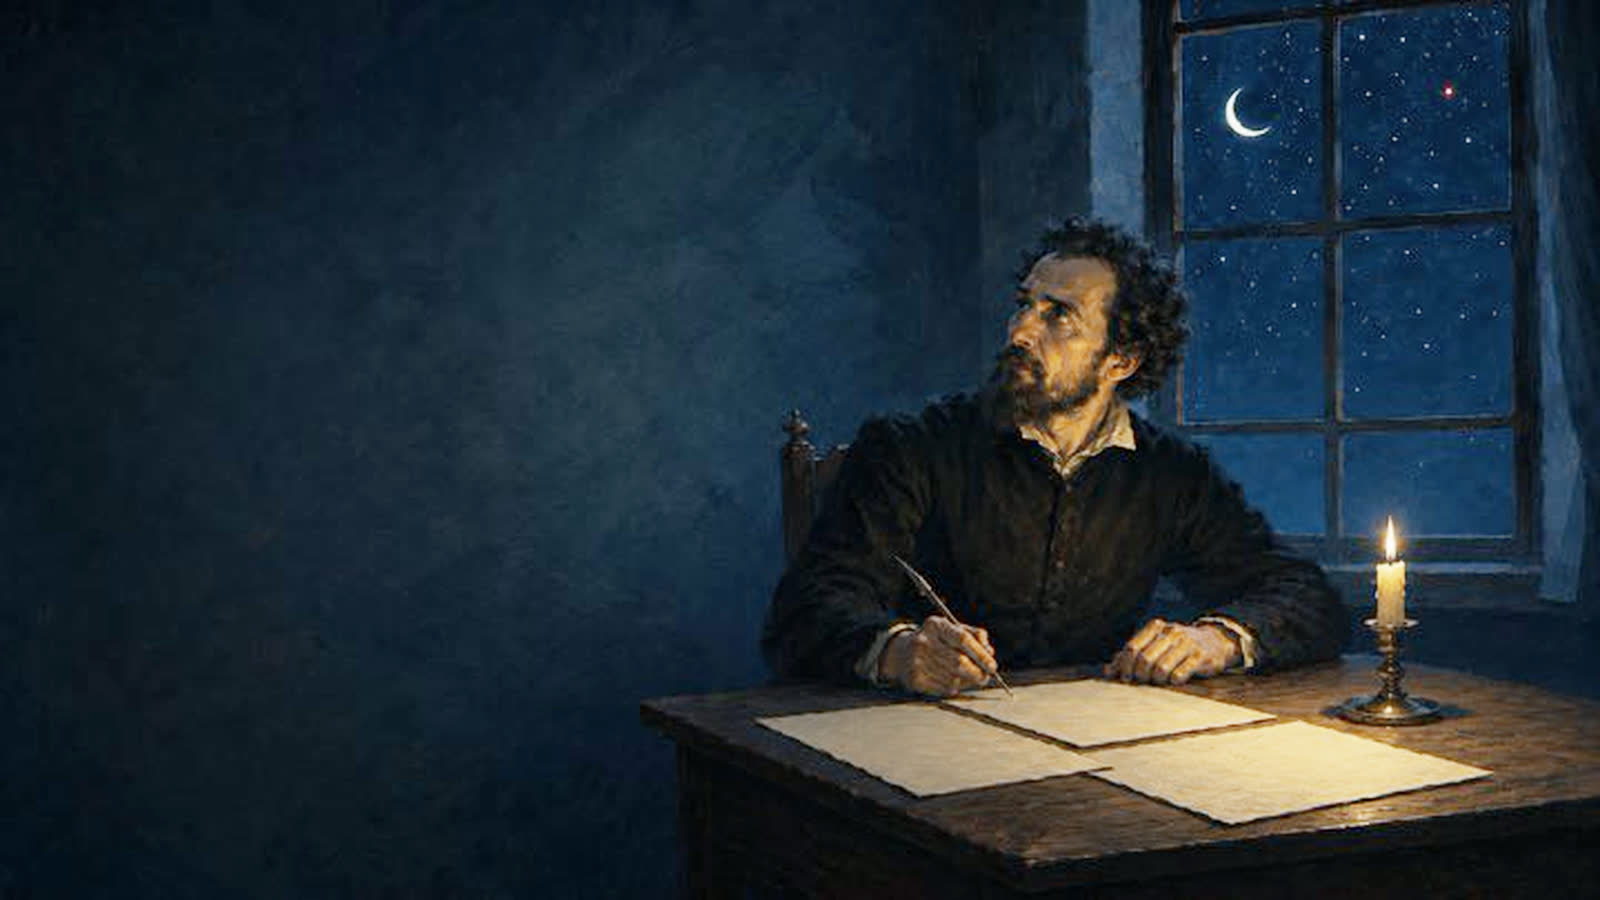
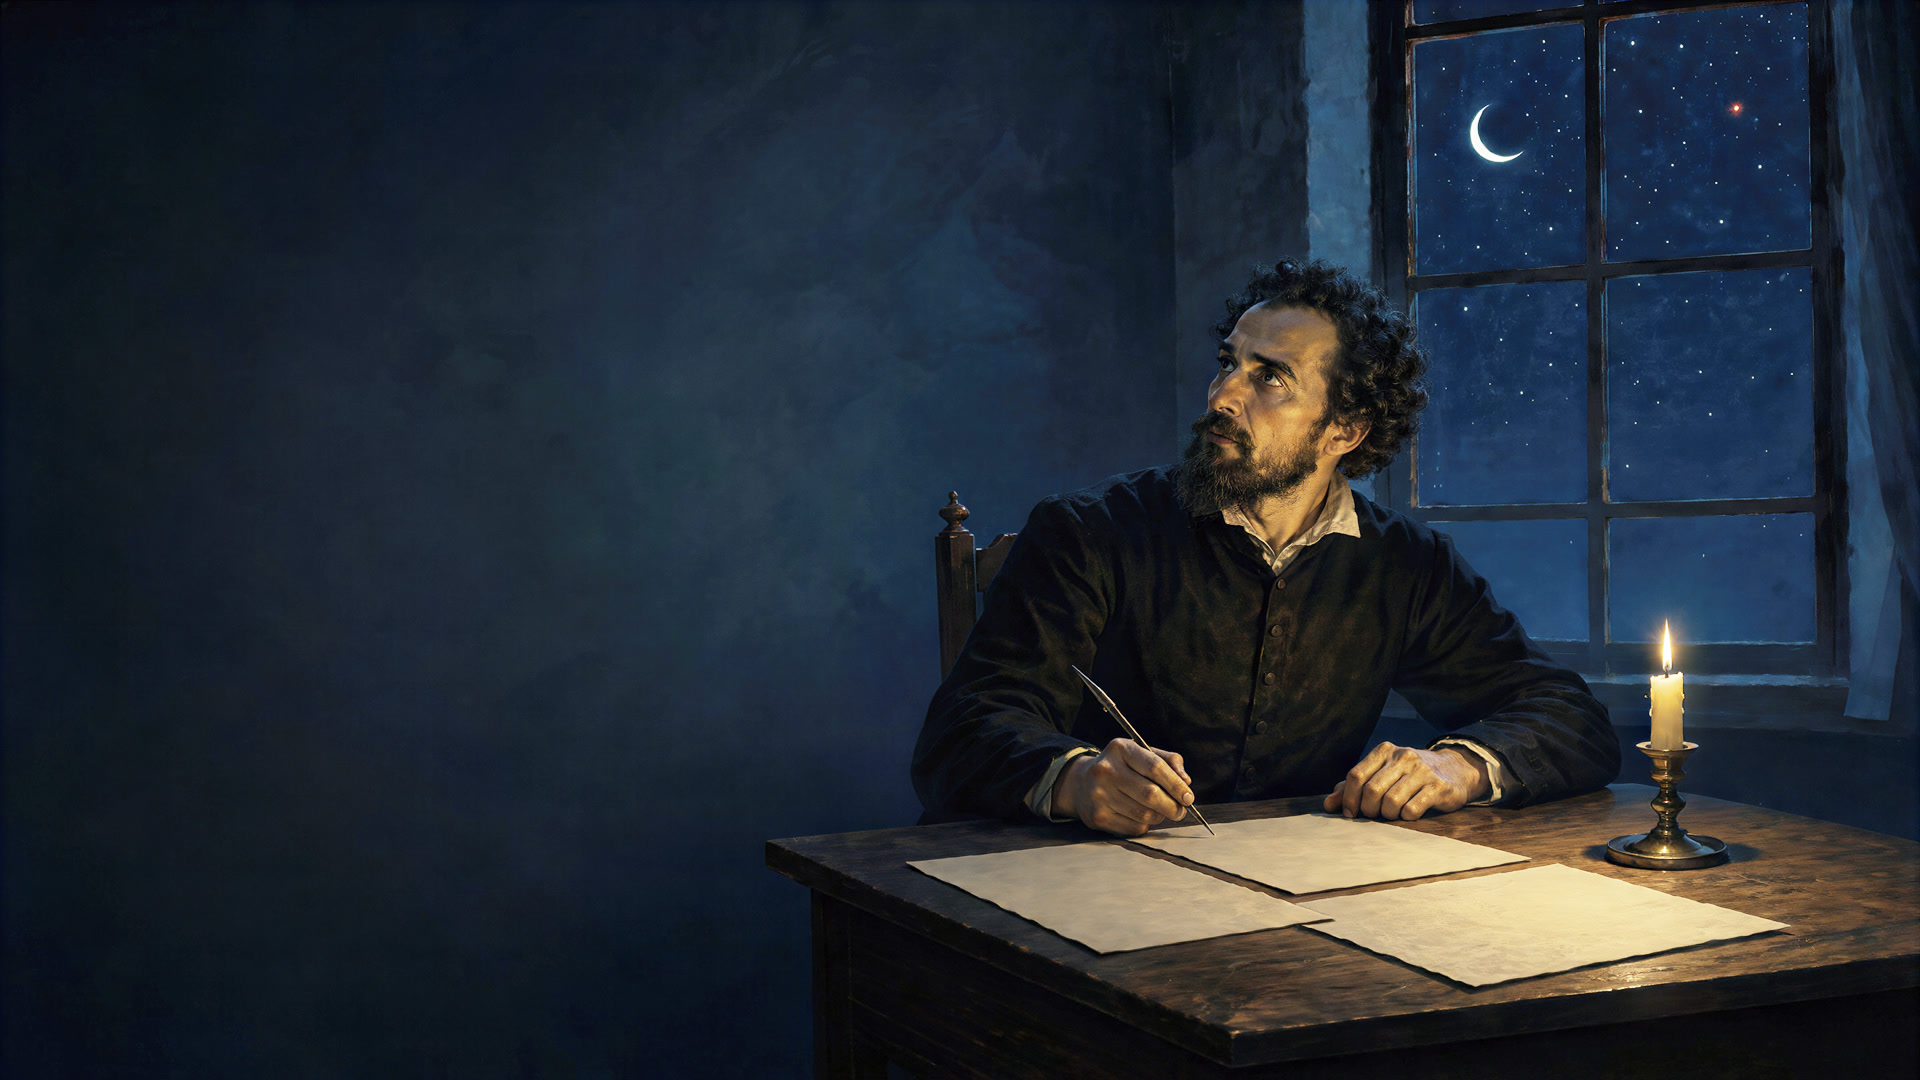
Skarp introfond: 720 px-omslaget förstorat 4x i Gigapixel
Fonden bakades tidigare från 720 px-omslaget och skalades sedan upp till
helskärm, så ansiktet och fönsterspröjsen mosade ut sig. Källan är nu
assets/intro-fond.png: samma omslag kört genom Topaz Gigapixel, modell
Wonder 3.5, 4x till 2880x1620. intro.jpg bakas från den i 1920 px med
samma kurva och avmättning som förut.

Mac-sökvägen till originalet står kvar som reserv i bygg.mjs, så en
byggning på Rickards dator använder fortfarande det riktiga originalet.

diff --git a/public/index.html b/public/index.html
@@ -316,7 +316,7 @@
 
 <!-- ── 1. Intro ─────────────────────────────────────────── -->
 <section class="vy intro" id="vy-intro">
-  <img class="fond" src="omslag/intro.jpg?v=2" alt="" fetchpriority="high">
+  <img class="fond" src="omslag/intro.jpg?v=3" alt="" fetchpriority="high">
   <div class="vinjett"></div>
   <header class="topp fram">
     <a class="logo" href="#" aria-label="Matematikvideor med Rickard">
